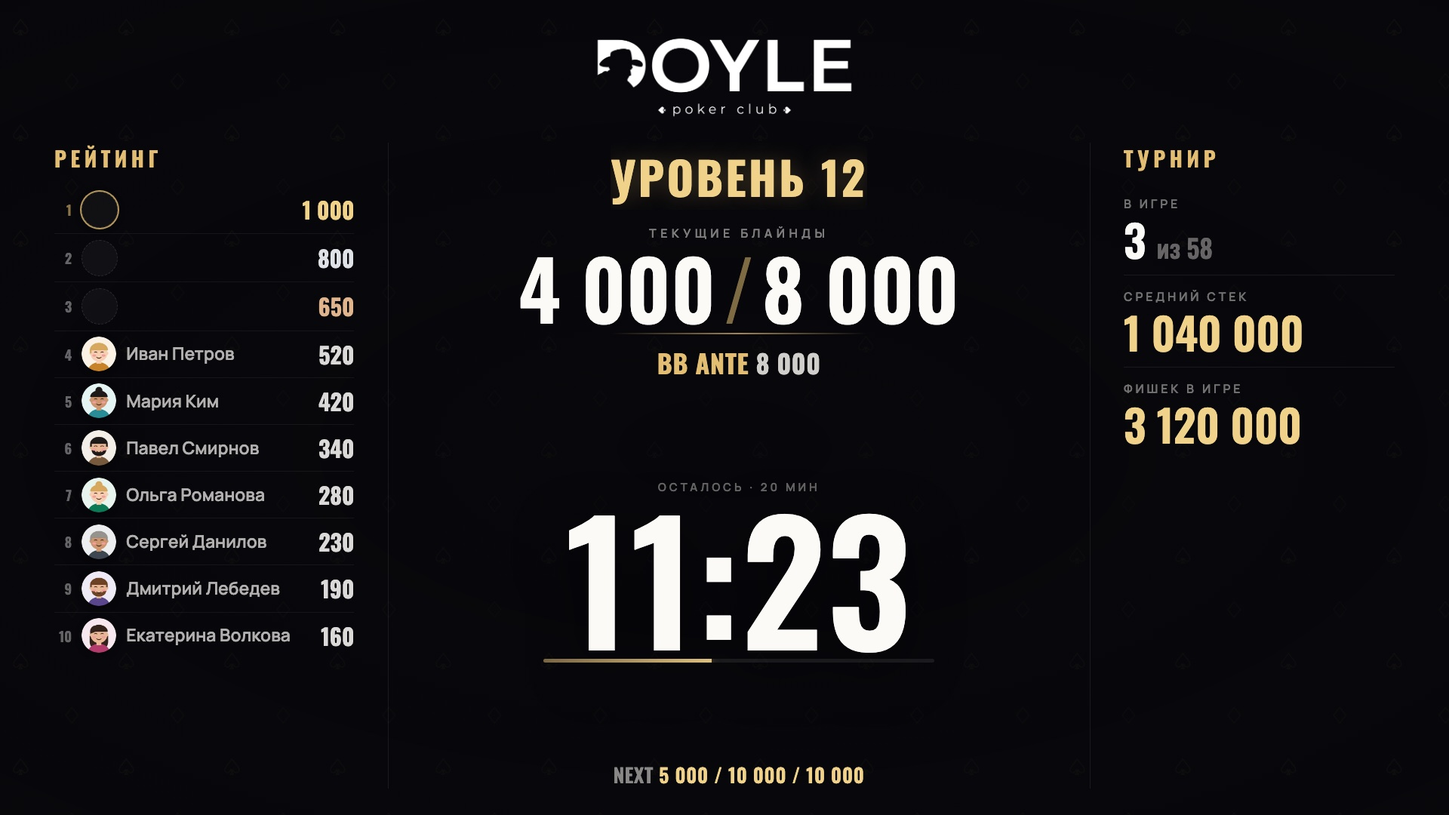
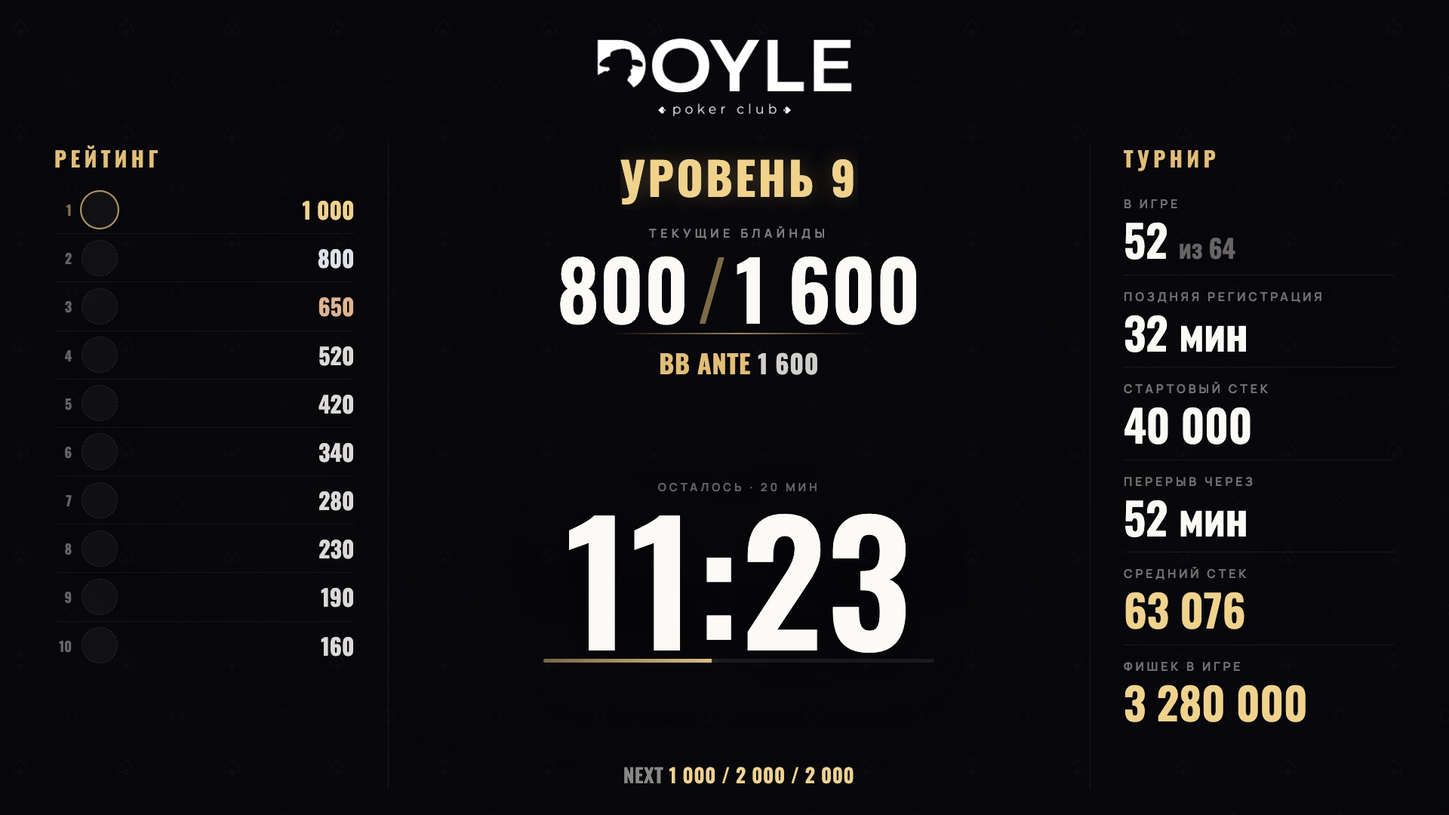
Floor display: empty rating (points only), 52 of 64 in play, late reg and break countdown

diff --git a/index.html b/index.html
@@ -24,7 +24,7 @@
 <div class="trust-stats"><div class="stat is-placeholder"><strong>00</strong><span>Что считаем: например, турниров проведено в системе</span></div><div class="stat is-placeholder"><strong>00</strong><span>Что считаем: например, игроков в приложениях клубов</span></div><div class="stat is-placeholder"><strong>00</strong><span>Что считаем: например, клубов или лет в работе</span></div></div>
 <figure class="trust-quote is-placeholder"><blockquote><p>«Здесь будет цитата владельца или администратора клуба: что изменилось в работе после перехода на OneTable.»</p></blockquote><figcaption><span class="quote-mark" aria-hidden="true">Д</span><span><b>Имя Фамилия</b><small>Должность, название клуба</small></span></figcaption></figure>
 </div></section>
-<section class="section app-section" id="app"><div class="container app-layout"><div class="app-art"><div class="app-phone iphone" id="brand-phone"><div class="iphone-screen"><span class="iphone-island" aria-hidden="true"></span><span class="iphone-status" aria-hidden="true"><b>9:41</b><i></i></span><button class="screen-zoom" data-screen="doyle-player-home.png?v=2" data-title="Приложение Doyle: профиль, турнир и рейтинг" aria-label="Увеличить экран: приложение Doyle"><img src="doyle-player-home.png?v=2" alt="Приложение клуба Doyle: профиль игрока, ближайший турнир и рейтинг" width="390" height="844" loading="lazy"></button><span class="brand-tint" aria-hidden="true"></span></div></div><span class="app-caption">Экран приложения Doyle</span></div><div class="app-copy"><div class="eyebrow">01 / ПРИЛОЖЕНИЕ ВАШЕГО КЛУБА</div><h2>Ваше приложение. <br><span class="green">Для ваших игроков.</span></h2><p>От первой записи до следующей победы. Расписание, личный прогресс и жизнь клуба — в приложении с вашим названием и стилем.</p><ul class="check-list"><li>Название, логотип и цвета вашего клуба</li><li>Запись на турнир с телефона</li><li>Профиль, уровни, достижения и рейтинг</li><li>Анонсы и итоги турниров в Telegram</li></ul><div class="brand-picker"><span>Примерьте цвет клуба</span><div role="group" aria-label="Цвет оформления приложения"><button class="swatch selected" style="--swatch:#0B7A55" data-color="" aria-label="Зелёный, как у Doyle" aria-pressed="true"></button><button class="swatch" style="--swatch:#F25A0A" data-color="#F25A0A" aria-label="Оранжевый" aria-pressed="false"></button><button class="swatch" style="--swatch:#2F6BFF" data-color="#2F6BFF" aria-label="Синий" aria-pressed="false"></button><button class="swatch" style="--swatch:#C4231A" data-color="#C4231A" aria-label="Красный" aria-pressed="false"></button></div></div><a class="inline-link" href="#contact" data-contact>Хочу такое для своего клуба <svg><use href="#arrow"/></svg></a></div></div></section><section class="section system-section" id="system"><div class="container"><div class="section-heading"><div><div class="eyebrow">02 / СИСТЕМА ДЛЯ КОМАНДЫ</div><h2>Одно приложение. <br><span class="muted-heading">У каждого — свои инструменты.</span></h2></div><p>Админ-панель, таймер, CRM и отчёты работают вместе с приложением игроков. Выберите роль — покажем, с чем она работает.</p></div><div class="system-layout"><div class="role-tabs" role="tablist" aria-label="Роли в клубе"><button class="role-tab active" role="tab" id="role-tab-admin" aria-controls="role-panel-admin" aria-selected="true" tabindex="0"><img class="role-tab-persona" src="role-admin.webp?v=2" alt="" width="295" height="640" loading="lazy" decoding="async"><span class="role-tab-body"><small>АДМИНИСТРАТОР</small><span class="role-tab-point">Записи и регистрация игроков</span><span class="role-tab-point">Отметка прихода и рассадка по столам</span><span class="role-tab-point">Реентри, вылеты и оплаты в одном месте</span></span></button><button class="role-tab" role="tab" id="role-tab-floor" aria-controls="role-panel-floor" aria-selected="false" tabindex="-1"><img class="role-tab-persona" src="role-floor.webp?v=2" alt="" width="330" height="640" loading="lazy" decoding="async"><span class="role-tab-body"><small>ФЛОР</small><span class="role-tab-point">Настраиваемый таймер и структура блайндов</span><span class="role-tab-point">Экран для зала в стиле вашего клуба</span><span class="role-tab-point">Учёт вылетов и реентри по ходу игры</span></span></button><button class="role-tab" role="tab" id="role-tab-owner" aria-controls="role-panel-owner" aria-selected="false" tabindex="-1"><img class="role-tab-persona" src="role-owner.webp?v=2" alt="" width="278" height="640" loading="lazy" decoding="async"><span class="role-tab-body"><small>ВЛАДЕЛЕЦ</small><span class="role-tab-point">CRM и база игроков клуба</span><span class="role-tab-point">Результаты турниров и рейтинг</span><span class="role-tab-point">Отчёт по оплатам — в Excel или Google Таблицы</span></span></button></div><div class="role-panels"><div class="role-panel" role="tabpanel" id="role-panel-admin" aria-labelledby="role-tab-admin"><div class="role-stage"><span class="role-kicker">АДМИН-ПАНЕЛЬ · ONETABLE</span><div class="role-screen role-screen-mock"><div class="admin-mock" role="img" aria-label="Панель администратора OneTable: список игроков турнира, отметка прихода и реентри"><aside class="am-side"><div class="am-logo"><img src="logo-dark.svg" alt=""><b>One<span>Table</span></b></div><ul><li><svg><use href="#clock"/></svg>Таймер</li><li><svg><use href="#cup"/></svg>Турнир</li><li class="on"><svg><use href="#users"/></svg>Игроки</li><li><svg><use href="#chart"/></svg>Оплата</li><li><svg><use href="#grid"/></svg>Структура</li><li><i></i>Столы</li><li><i></i>Расписание</li><li><i></i>CRM</li><li><i></i>Приложение</li></ul></aside><div class="am-main"><div class="am-top"><span class="am-live"><i></i>Friday Deep Stack · Уровень 4 · 200/400</span><span class="am-count">Игроки <b>24 / 45</b></span></div><div class="am-tools"><span class="am-add">+ Добавить игрока</span><span class="am-search">Поиск игрока</span></div><div class="am-table"><div class="am-row am-head"><span>#</span><span>Игрок</span><span>Статус</span><span>Пришёл</span><span>Реентри</span><span>KO</span></div><div class="am-row"><span>1</span><span class="am-player"><img src="avatars/maksim.webp" alt="" width="160" height="160">Максим</span><span class="am-status">В игре</span><span class="am-check on"></span><span class="am-re"><em>R−</em><em>R+</em><small>×1</small></span><span>0</span></div><div class="am-row"><span>2</span><span class="am-player"><img src="avatars/anna.webp" alt="" width="160" height="160">Анна</span><span class="am-status">В игре</span><span class="am-check on"></span><span class="am-re"><em>R−</em><em>R+</em></span><span>0</span></div><div class="am-row"><span>3</span><span class="am-player"><img src="avatars/aleksandr.webp" alt="" width="160" height="160">Александр</span><span class="am-status">В игре</span><span class="am-check on"></span><span class="am-re"><em>R−</em><em>R+</em></span><span>0</span></div><div class="am-row"><span>4</span><span class="am-player"><img src="avatars/dmitry.webp" alt="" width="160" height="160">Дмитрий</span><span class="am-status">В игре</span><span class="am-check on"></span><span class="am-re"><em>R−</em><em>R+</em><small>×1</small></span><span>0</span></div><div class="am-row"><span>5</span><span class="am-player"><img src="avatars/olga.webp" alt="" width="160" height="160">Ольга</span><span class="am-status">В игре</span><span class="am-check on"></span><span class="am-re"><em>R−</em><em>R+</em></span><span>0</span></div><div class="am-row"><span>6</span><span class="am-player"><img src="avatars/sergey.webp" alt="" width="160" height="160">Сергей</span><span class="am-status out">Вылетел</span><span class="am-check on"></span><span class="am-re"><em>R−</em><em>R+</em></span><span>0</span></div><div class="am-row"><span>7</span><span class="am-player"><img src="avatars/ekaterina.webp" alt="" width="160" height="160">Екатерина</span><span class="am-status wait">Записан</span><span class="am-check"></span><span class="am-re"><em>R−</em><em>R+</em></span><span>0</span></div></div></div></div></div></div></div><div class="role-panel" role="tabpanel" id="role-panel-floor" aria-labelledby="role-tab-floor" hidden><div class="role-stage"><span class="role-kicker">ЭКРАН ТАЙМЕРА · DOYLE</span><button class="screen-zoom role-screen" data-screen="doyle-display.jpg?v=3" data-title="Doyle — экран таймера в зале" aria-label="Увеличить экран: таймер турнира"><img src="doyle-display.jpg?v=3" alt="Экран таймера Doyle: рейтинг с очками, уровень, блайнды, время и показатели турнира" width="1920" height="1080" loading="lazy"><span class="zoom-hint">Открыть экран ↗</span></button></div></div><div class="role-panel" role="tabpanel" id="role-panel-owner" aria-labelledby="role-tab-owner" hidden><div class="role-stage"><span class="role-kicker">ОТЧЁТ ВЛАДЕЛЬЦА</span><div class="role-screen owner-report" aria-label="Пример отчёта владельца"><div class="owner-head"><b>Обзор клуба</b><span>ИГРОВОЙ ДЕНЬ · ПРИМЕР</span></div><small>Учтено оплат</small><strong>48 000 <span>₽</span></strong><div class="owner-bars" aria-hidden="true"><i style="--h:32%"></i><i style="--h:56%"></i><i style="--h:42%"></i><i style="--h:80%"></i><i style="--h:62%"></i><i style="--h:95%"></i><i style="--h:74%"></i></div><div class="owner-stats"><span><b>36</b> участий</span><span><b>12</b> реентри</span><span><b>48</b> оплат</span></div></div></div></div></div></div></div></section><section class="section workflow" id="workflow"><div class="container"><div class="section-heading"><div><div class="eyebrow">03 / КАК ЭТО РАБОТАЕТ ВМЕСТЕ</div><h2>Один игровой вечер. <br><span class="muted-heading">Без десятка инструментов.</span></h2></div><p>От анонса до итогов — одна система. Данные не нужно переносить между чатами, таблицами и тетрадками.</p></div><div class="day-timeline" aria-label="Пример игрового вечера в OneTable"><div class="tl-head"><span><span class="status-dot"></span> ПЯТНИЦА · FRIDAY DEEP STACK</span><span>ПРИМЕР ВЕЧЕРА</span></div><ol class="tl-list"><li><time>12:00</time><b>Анонс ушёл в Telegram</b><span>Турнир опубликован из макета. Игроки видят его в приложении клуба.</span></li><li><time>15:40</time><b>Запись идёт сама</b><span>24 игрока записались с телефона — без звонков и переписки.</span></li><li><time>18:45</time><b>Гости на месте</b><span>Администратор отмечает пришедших и рассаживает их по столам.</span></li><li class="is-live"><time>19:00</time><b>Таймер запущен</b><span>Уровни и блайнды на экране зала. Реентри и вылеты учитываются по ходу игры.</span></li><li><time>00:20</time><b>Итоги без ручного подсчёта</b><span>Результаты попали в рейтинг и канал клуба, отчёт по оплатам — в таблицу.</span></li></ol></div></div></section>
+<section class="section app-section" id="app"><div class="container app-layout"><div class="app-art"><div class="app-phone iphone" id="brand-phone"><div class="iphone-screen"><span class="iphone-island" aria-hidden="true"></span><span class="iphone-status" aria-hidden="true"><b>9:41</b><i></i></span><button class="screen-zoom" data-screen="doyle-player-home.png?v=2" data-title="Приложение Doyle: профиль, турнир и рейтинг" aria-label="Увеличить экран: приложение Doyle"><img src="doyle-player-home.png?v=2" alt="Приложение клуба Doyle: профиль игрока, ближайший турнир и рейтинг" width="390" height="844" loading="lazy"></button><span class="brand-tint" aria-hidden="true"></span></div></div><span class="app-caption">Экран приложения Doyle</span></div><div class="app-copy"><div class="eyebrow">01 / ПРИЛОЖЕНИЕ ВАШЕГО КЛУБА</div><h2>Ваше приложение. <br><span class="green">Для ваших игроков.</span></h2><p>От первой записи до следующей победы. Расписание, личный прогресс и жизнь клуба — в приложении с вашим названием и стилем.</p><ul class="check-list"><li>Название, логотип и цвета вашего клуба</li><li>Запись на турнир с телефона</li><li>Профиль, уровни, достижения и рейтинг</li><li>Анонсы и итоги турниров в Telegram</li></ul><div class="brand-picker"><span>Примерьте цвет клуба</span><div role="group" aria-label="Цвет оформления приложения"><button class="swatch selected" style="--swatch:#0B7A55" data-color="" aria-label="Зелёный, как у Doyle" aria-pressed="true"></button><button class="swatch" style="--swatch:#F25A0A" data-color="#F25A0A" aria-label="Оранжевый" aria-pressed="false"></button><button class="swatch" style="--swatch:#2F6BFF" data-color="#2F6BFF" aria-label="Синий" aria-pressed="false"></button><button class="swatch" style="--swatch:#C4231A" data-color="#C4231A" aria-label="Красный" aria-pressed="false"></button></div></div><a class="inline-link" href="#contact" data-contact>Хочу такое для своего клуба <svg><use href="#arrow"/></svg></a></div></div></section><section class="section system-section" id="system"><div class="container"><div class="section-heading"><div><div class="eyebrow">02 / СИСТЕМА ДЛЯ КОМАНДЫ</div><h2>Одно приложение. <br><span class="muted-heading">У каждого — свои инструменты.</span></h2></div><p>Админ-панель, таймер, CRM и отчёты работают вместе с приложением игроков. Выберите роль — покажем, с чем она работает.</p></div><div class="system-layout"><div class="role-tabs" role="tablist" aria-label="Роли в клубе"><button class="role-tab active" role="tab" id="role-tab-admin" aria-controls="role-panel-admin" aria-selected="true" tabindex="0"><img class="role-tab-persona" src="role-admin.webp?v=2" alt="" width="295" height="640" loading="lazy" decoding="async"><span class="role-tab-body"><small>АДМИНИСТРАТОР</small><span class="role-tab-point">Записи и регистрация игроков</span><span class="role-tab-point">Отметка прихода и рассадка по столам</span><span class="role-tab-point">Реентри, вылеты и оплаты в одном месте</span></span></button><button class="role-tab" role="tab" id="role-tab-floor" aria-controls="role-panel-floor" aria-selected="false" tabindex="-1"><img class="role-tab-persona" src="role-floor.webp?v=2" alt="" width="330" height="640" loading="lazy" decoding="async"><span class="role-tab-body"><small>ФЛОР</small><span class="role-tab-point">Настраиваемый таймер и структура блайндов</span><span class="role-tab-point">Экран для зала в стиле вашего клуба</span><span class="role-tab-point">Учёт вылетов и реентри по ходу игры</span></span></button><button class="role-tab" role="tab" id="role-tab-owner" aria-controls="role-panel-owner" aria-selected="false" tabindex="-1"><img class="role-tab-persona" src="role-owner.webp?v=2" alt="" width="278" height="640" loading="lazy" decoding="async"><span class="role-tab-body"><small>ВЛАДЕЛЕЦ</small><span class="role-tab-point">CRM и база игроков клуба</span><span class="role-tab-point">Результаты турниров и рейтинг</span><span class="role-tab-point">Отчёт по оплатам — в Excel или Google Таблицы</span></span></button></div><div class="role-panels"><div class="role-panel" role="tabpanel" id="role-panel-admin" aria-labelledby="role-tab-admin"><div class="role-stage"><span class="role-kicker">АДМИН-ПАНЕЛЬ · ONETABLE</span><div class="role-screen role-screen-mock"><div class="admin-mock" role="img" aria-label="Панель администратора OneTable: список игроков турнира, отметка прихода и реентри"><aside class="am-side"><div class="am-logo"><img src="logo-dark.svg" alt=""><b>One<span>Table</span></b></div><ul><li><svg><use href="#clock"/></svg>Таймер</li><li><svg><use href="#cup"/></svg>Турнир</li><li class="on"><svg><use href="#users"/></svg>Игроки</li><li><svg><use href="#chart"/></svg>Оплата</li><li><svg><use href="#grid"/></svg>Структура</li><li><i></i>Столы</li><li><i></i>Расписание</li><li><i></i>CRM</li><li><i></i>Приложение</li></ul></aside><div class="am-main"><div class="am-top"><span class="am-live"><i></i>Friday Deep Stack · Уровень 4 · 200/400</span><span class="am-count">Игроки <b>24 / 45</b></span></div><div class="am-tools"><span class="am-add">+ Добавить игрока</span><span class="am-search">Поиск игрока</span></div><div class="am-table"><div class="am-row am-head"><span>#</span><span>Игрок</span><span>Статус</span><span>Пришёл</span><span>Реентри</span><span>KO</span></div><div class="am-row"><span>1</span><span class="am-player"><img src="avatars/maksim.webp" alt="" width="160" height="160">Максим</span><span class="am-status">В игре</span><span class="am-check on"></span><span class="am-re"><em>R−</em><em>R+</em><small>×1</small></span><span>0</span></div><div class="am-row"><span>2</span><span class="am-player"><img src="avatars/anna.webp" alt="" width="160" height="160">Анна</span><span class="am-status">В игре</span><span class="am-check on"></span><span class="am-re"><em>R−</em><em>R+</em></span><span>0</span></div><div class="am-row"><span>3</span><span class="am-player"><img src="avatars/aleksandr.webp" alt="" width="160" height="160">Александр</span><span class="am-status">В игре</span><span class="am-check on"></span><span class="am-re"><em>R−</em><em>R+</em></span><span>0</span></div><div class="am-row"><span>4</span><span class="am-player"><img src="avatars/dmitry.webp" alt="" width="160" height="160">Дмитрий</span><span class="am-status">В игре</span><span class="am-check on"></span><span class="am-re"><em>R−</em><em>R+</em><small>×1</small></span><span>0</span></div><div class="am-row"><span>5</span><span class="am-player"><img src="avatars/olga.webp" alt="" width="160" height="160">Ольга</span><span class="am-status">В игре</span><span class="am-check on"></span><span class="am-re"><em>R−</em><em>R+</em></span><span>0</span></div><div class="am-row"><span>6</span><span class="am-player"><img src="avatars/sergey.webp" alt="" width="160" height="160">Сергей</span><span class="am-status out">Вылетел</span><span class="am-check on"></span><span class="am-re"><em>R−</em><em>R+</em></span><span>0</span></div><div class="am-row"><span>7</span><span class="am-player"><img src="avatars/ekaterina.webp" alt="" width="160" height="160">Екатерина</span><span class="am-status wait">Записан</span><span class="am-check"></span><span class="am-re"><em>R−</em><em>R+</em></span><span>0</span></div></div></div></div></div></div></div><div class="role-panel" role="tabpanel" id="role-panel-floor" aria-labelledby="role-tab-floor" hidden><div class="role-stage"><span class="role-kicker">ЭКРАН ТАЙМЕРА · DOYLE</span><button class="screen-zoom role-screen" data-screen="doyle-display.jpg?v=4" data-title="Doyle — экран таймера в зале" aria-label="Увеличить экран: таймер турнира"><img src="doyle-display.jpg?v=4" alt="Экран таймера Doyle: очки рейтинга, уровень, блайнды, время, поздняя регистрация и перерыв" width="1920" height="1080" loading="lazy"><span class="zoom-hint">Открыть экран ↗</span></button></div></div><div class="role-panel" role="tabpanel" id="role-panel-owner" aria-labelledby="role-tab-owner" hidden><div class="role-stage"><span class="role-kicker">ОТЧЁТ ВЛАДЕЛЬЦА</span><div class="role-screen owner-report" aria-label="Пример отчёта владельца"><div class="owner-head"><b>Обзор клуба</b><span>ИГРОВОЙ ДЕНЬ · ПРИМЕР</span></div><small>Учтено оплат</small><strong>48 000 <span>₽</span></strong><div class="owner-bars" aria-hidden="true"><i style="--h:32%"></i><i style="--h:56%"></i><i style="--h:42%"></i><i style="--h:80%"></i><i style="--h:62%"></i><i style="--h:95%"></i><i style="--h:74%"></i></div><div class="owner-stats"><span><b>36</b> участий</span><span><b>12</b> реентри</span><span><b>48</b> оплат</span></div></div></div></div></div></div></div></section><section class="section workflow" id="workflow"><div class="container"><div class="section-heading"><div><div class="eyebrow">03 / КАК ЭТО РАБОТАЕТ ВМЕСТЕ</div><h2>Один игровой вечер. <br><span class="muted-heading">Без десятка инструментов.</span></h2></div><p>От анонса до итогов — одна система. Данные не нужно переносить между чатами, таблицами и тетрадками.</p></div><div class="day-timeline" aria-label="Пример игрового вечера в OneTable"><div class="tl-head"><span><span class="status-dot"></span> ПЯТНИЦА · FRIDAY DEEP STACK</span><span>ПРИМЕР ВЕЧЕРА</span></div><ol class="tl-list"><li><time>12:00</time><b>Анонс ушёл в Telegram</b><span>Турнир опубликован из макета. Игроки видят его в приложении клуба.</span></li><li><time>15:40</time><b>Запись идёт сама</b><span>24 игрока записались с телефона — без звонков и переписки.</span></li><li><time>18:45</time><b>Гости на месте</b><span>Администратор отмечает пришедших и рассаживает их по столам.</span></li><li class="is-live"><time>19:00</time><b>Таймер запущен</b><span>Уровни и блайнды на экране зала. Реентри и вылеты учитываются по ходу игры.</span></li><li><time>00:20</time><b>Итоги без ручного подсчёта</b><span>Результаты попали в рейтинг и канал клуба, отчёт по оплатам — в таблицу.</span></li></ol></div></div></section>
 <section class="video-section"><div class="container"><div class="video-heading"><div><div class="eyebrow">ПОСМОТРЕТЬ В ДЕЛЕ</div><h2>Весь клуб. <br>За полторы минуты.</h2></div><p>Реальный сценарий работы платформы: <br>от создания турнира до отчёта.</p></div><button class="video-preview" data-video aria-label="Смотреть видеопрезентацию OneTable"><img src="demo-poster.jpg?v=5" alt="Кадр видеопрезентации: приложение игрока и панель организатора" loading="lazy"><span class="video-shade"></span><span class="video-play"><svg><use href="#play"/></svg></span><span class="video-bottom"><b>Познакомьтесь с OneTable</b><span>01:30 <span>↗</span></span></span></button></div></section>
 <section class="faq-section"><div class="container faq-grid"><div><div class="eyebrow">ОСТАЛОСЬ УТОЧНИТЬ</div><h2>Хорошие <br>вопросы.</h2></div><div class="faq-list"><details><summary>Что входит в покерную систему?<span>+</span></summary><p>Админ-панель, CRM, настраиваемый таймер, инструменты для турниров и рассадки, учёт участий и оплат, рейтинги и отчёты. Система связана с приложением для игроков, которое оформляем под ваш клуб.</p></details><details><summary>Это покер-рум для игры онлайн?<span>+</span></summary><p>OneTable — платформа для организации работы очного покерного клуба. В неё входят приложение для игроков под брендом клуба, настраиваемый таймер, админ-панель, CRM, управление турнирами и учёт.</p></details><details><summary>Можно использовать название и стиль моего клуба?<span>+</span></summary><p>Да. Создаём приложение с названием, логотипом и цветами вашего клуба. Оформление таймера также можно кастомизировать под фирменный стиль.</p></details><details><summary>Как платформа работает с Telegram?<span>+</span></summary><p>Бот публикует анонсы и итоги турниров в канале клуба. Игроки получают доступ к расписанию и записи через приложение.</p></details><details><summary>Можно выгрузить отчёты?<span>+</span></summary><p>Отчёт по оплатам можно выгрузить для дальнейшей работы в Excel или Google Таблицах.</p></details><details><summary>Что нужно от клуба, чтобы начать?<span>+</span></summary><p>Для приложения — название, логотип и цвета клуба. Для системы — ваш формат турниров: структура блайндов, взносы и правила реентри. Остальное настроим вместе при подключении.</p></details><details><summary>С чего начать и сколько это стоит?<span>+</span></summary><p>Начнём с демонстрации и обсуждения ваших процессов: формата турниров, работы администратора и приложения игроков. Состав решения и стоимость обсудим после знакомства с вашим клубом.</p></details></div></div></section>
 <section class="contact-section" id="contact"><div class="container"><div class="contact-inner"><div class="eyebrow"><span class="status-dot"></span> СЛЕДУЮЩИЙ ХОД — ЗА ВАМИ</div><h2>Давайте соберём <br>ваш клуб в <span>OneTable.</span></h2><p>Обсудим приложение под ваш бренд <br>и систему для всей команды клуба.</p><button class="button button-green" id="contact-open">Подключиться <svg><use href="#arrow"/></svg></button><span class="contact-subline">Начнём с ваших задач.</span></div></div></section>
